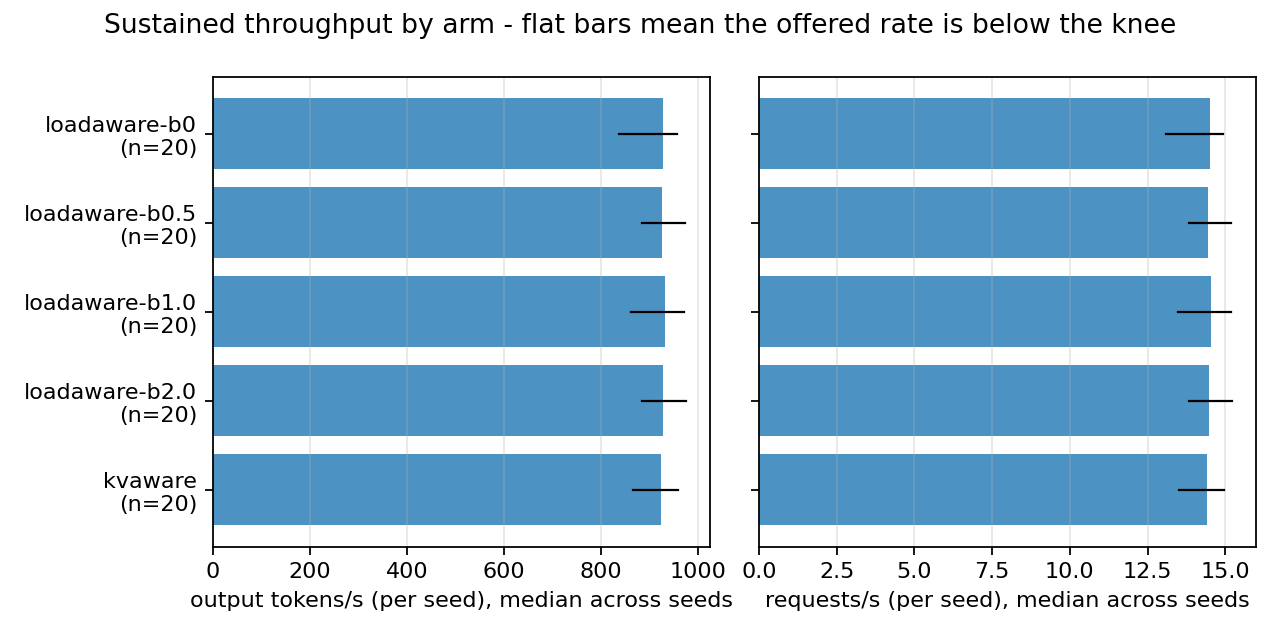
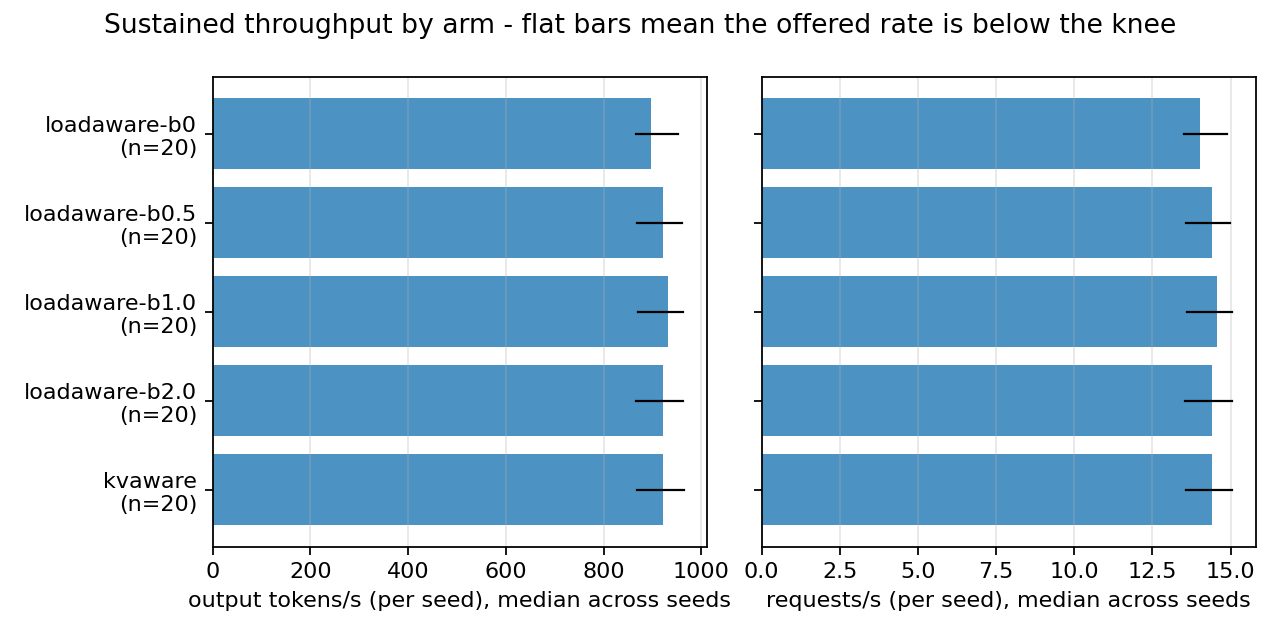
figs(bench): regenerate from the confirmatory sweep; two captions lied (#31)
All 10 figures regenerated from the 5-cell sweep, plus two hardcoded captions
that this dataset falsifies:

fig1's legend read "median of 6 seeds" across a 20-seed sweep, contradicting the
title on the same figure. It is the centerpiece. _panel_grid already carries a
comment about fixing exactly this defect for the bar panels; the line plot was
missed. Now derived from the cells, and explicit when n is mixed.

fig7's subtitle asserted "hit rate is flat over this range - diverting costs no
locality here". That was true of an earlier grid. Here prefix cache hit rate
falls 91.2% -> 86.1% monotonically in beta, and that decline is the mechanism
behind the beta=2.0 latency reversal - so the caption was explaining away the
effect the figure plots. Now computed, with the flat wording kept for the case
where it is actually flat.

Also: export_summary.py regenerates from disk rather than appending, so running
it over the current results/ silently dropped 5 cells (10 rows) whose raw
directories no longer exist and for which the committed CSV was the last copy.
summary-per-seed.csv goes 33 -> 38 cells, 399 rows, orphans preserved. Worth
knowing before anyone regenerates it again.

diff --git a/benchmarks/plot_results.py b/benchmarks/plot_results.py
@@ -74,8 +74,15 @@ def fig_p95_vs_beta(cells: List[Dict], out: str) -> None:
     for c in la:
         ax.scatter([c["beta"]] * len(c["seeds"]), ttft_p95s(c),
                    color="tab:blue", alpha=0.35, s=22, zorder=2)
+    # Derived, never hardcoded. This read "median of 6 seeds" through the whole
+    # 20-seed confirmatory sweep, contradicting the title on the same figure -
+    # the same defect _panel_grid documents fixing for the bar panels, missed
+    # here. If the loadaware cells ever carry different n, say so rather than
+    # quietly picking one.
+    ns = {len(c["seeds"]) for c in la}
+    n_label = f"{ns.pop()} seeds" if len(ns) == 1 else "mixed n - see fig5"
     ax.plot(betas, meds, "o-", color="tab:blue", lw=2, zorder=3,
-            label="loadaware (median of 6 seeds)")
+            label=f"loadaware (median of {n_label})")
 
     for c in cells:
         style = BASELINE_STYLE.get(c["arm"])
@@ -221,8 +228,18 @@ def fig_beta_tradeoff(cells: List[Dict], out: str) -> None:
     ax2.plot(betas, p95, "s--", color="tab:red", lw=2, label="TTFT p95")
     ax2.set_ylabel("TTFT p95 (s), median of seeds", color="tab:red")
     ax2.tick_params(axis="y", labelcolor="tab:red")
-    ax.set_title(r"Cache hit rate and TTFT p95 vs $\beta$"
-                 "\nhit rate is flat over this range - diverting costs no locality here")
+    # Derived, not asserted. This subtitle hardcoded "hit rate is flat over this
+    # range - diverting costs no locality here", a conclusion true of an earlier
+    # grid and false of the 2026-08-06 confirmatory sweep, where hit rate falls
+    # 91.2% -> 86.1% monotonically in beta and that decline IS the mechanism
+    # behind the beta=2.0 latency reversal. A figure must not caption away the
+    # effect it is plotting.
+    drop_pts = (hit[0] - hit[-1]) * 100
+    note = ("hit rate is flat over this range - diverting costs no locality here"
+            if abs(drop_pts) < 2.0 else
+            f"hit rate falls {drop_pts:.1f} pts across the grid"
+            " - diverting load costs cache locality")
+    ax.set_title(r"Cache hit rate and TTFT p95 vs $\beta$" "\n" + note)
     ax.grid(alpha=0.3)
     fig.tight_layout()
     fig.savefig(out, dpi=160)

diff --git a/CHANGELOG.md b/CHANGELOG.md
@@ -24,7 +24,22 @@ with a pointer to the evidence — those matter as much as code.
   hardcoded 0.05. No result to date fell in the gap, so no reported verdict changes. Now a
   named `ALPHA` constant.
 
+### Fixed (figures)
+- **fig1's legend read "median of 6 seeds" through a 20-seed sweep**, contradicting the title
+  on the same figure. Same defect `_panel_grid` documents fixing for the bar panels, missed on
+  the centerpiece. Now derived, and says so if the loadaware cells ever carry mixed n.
+- **fig7's subtitle asserted "hit rate is flat over this range - diverting costs no locality
+  here."** True of an earlier grid, false here: hit rate falls 91.2% → 86.1% monotonically in
+  β, and that decline is the mechanism behind the β=2.0 latency reversal. The caption was
+  explaining away the effect the figure plots. Now computed from the data.
+- **`export_summary.py` regenerates from disk and does not append.** Rerunning it over the
+  current `results/` dropped 5 cells (10 rows) whose raw directories no longer exist and for
+  which the committed CSV was the only surviving record. `results/summary-per-seed.csv` is now
+  33 → 38 cells, 399 rows, with those orphans preserved. Anyone regenerating this file must
+  check for cells that exist only in it.
+
 ### Added
+- **All 10 figures regenerated** from the confirmatory sweep into `docs/figures/`.
 - **Confirmatory sweep, 5 cells × 20 seeds, committed to `results/`** - `kvaware`,
   `loadaware-b0.5`, `b1.0`, `b2.0`, `b0`, in the Amendment 1 order. All five pass the validity
   gate (pooled error 0.20-0.46%, no seed near the 10% ceiling, `utilization_coverage` 1.000).
